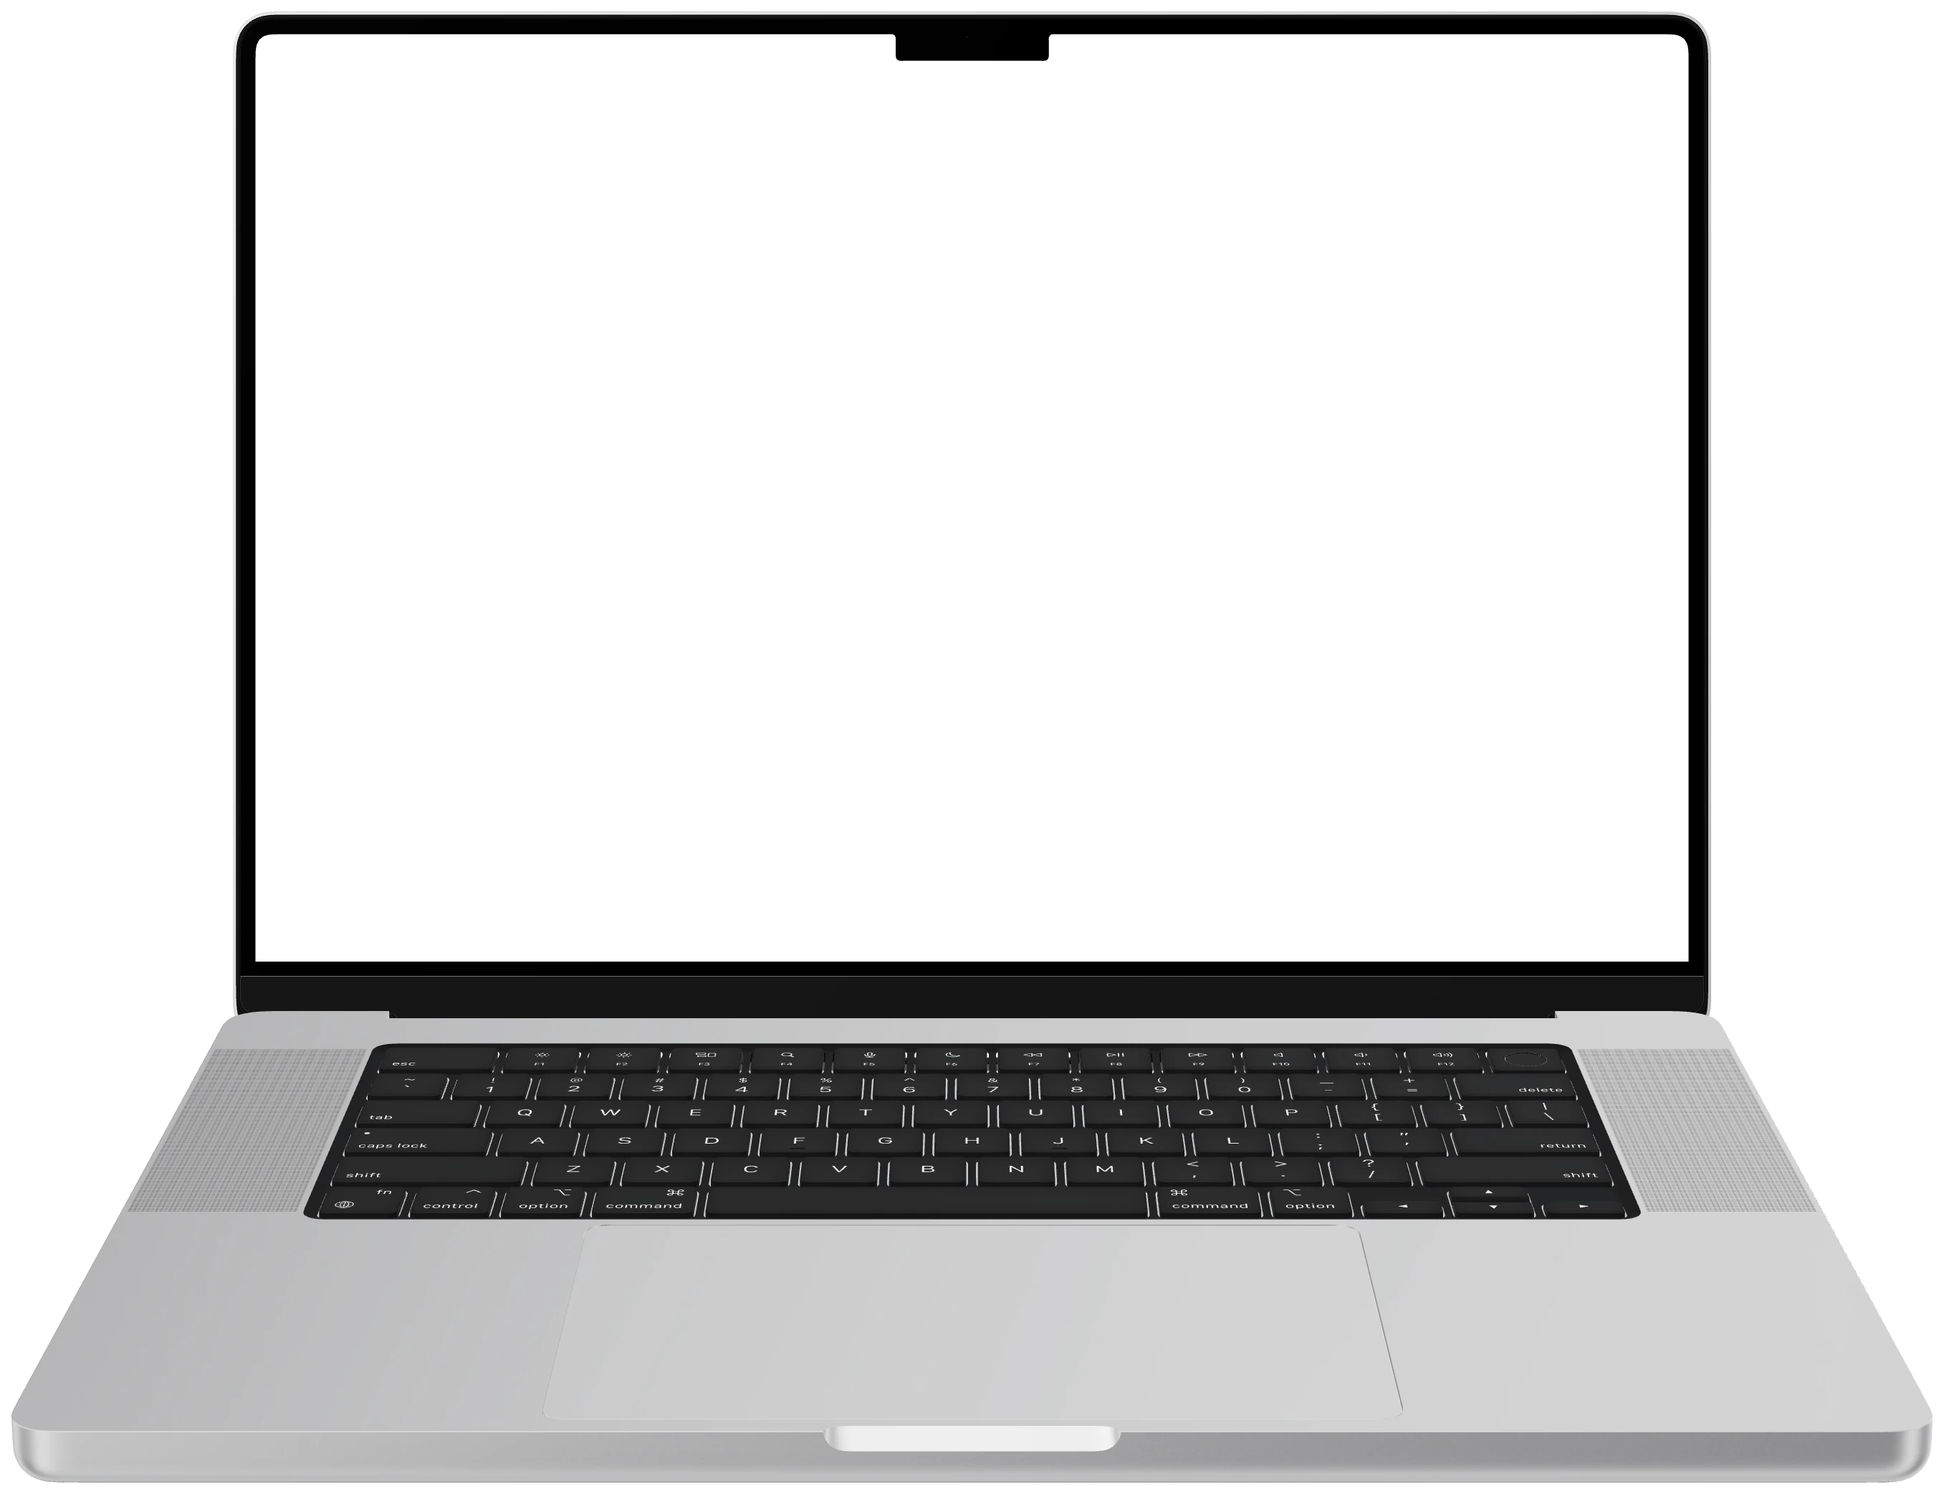
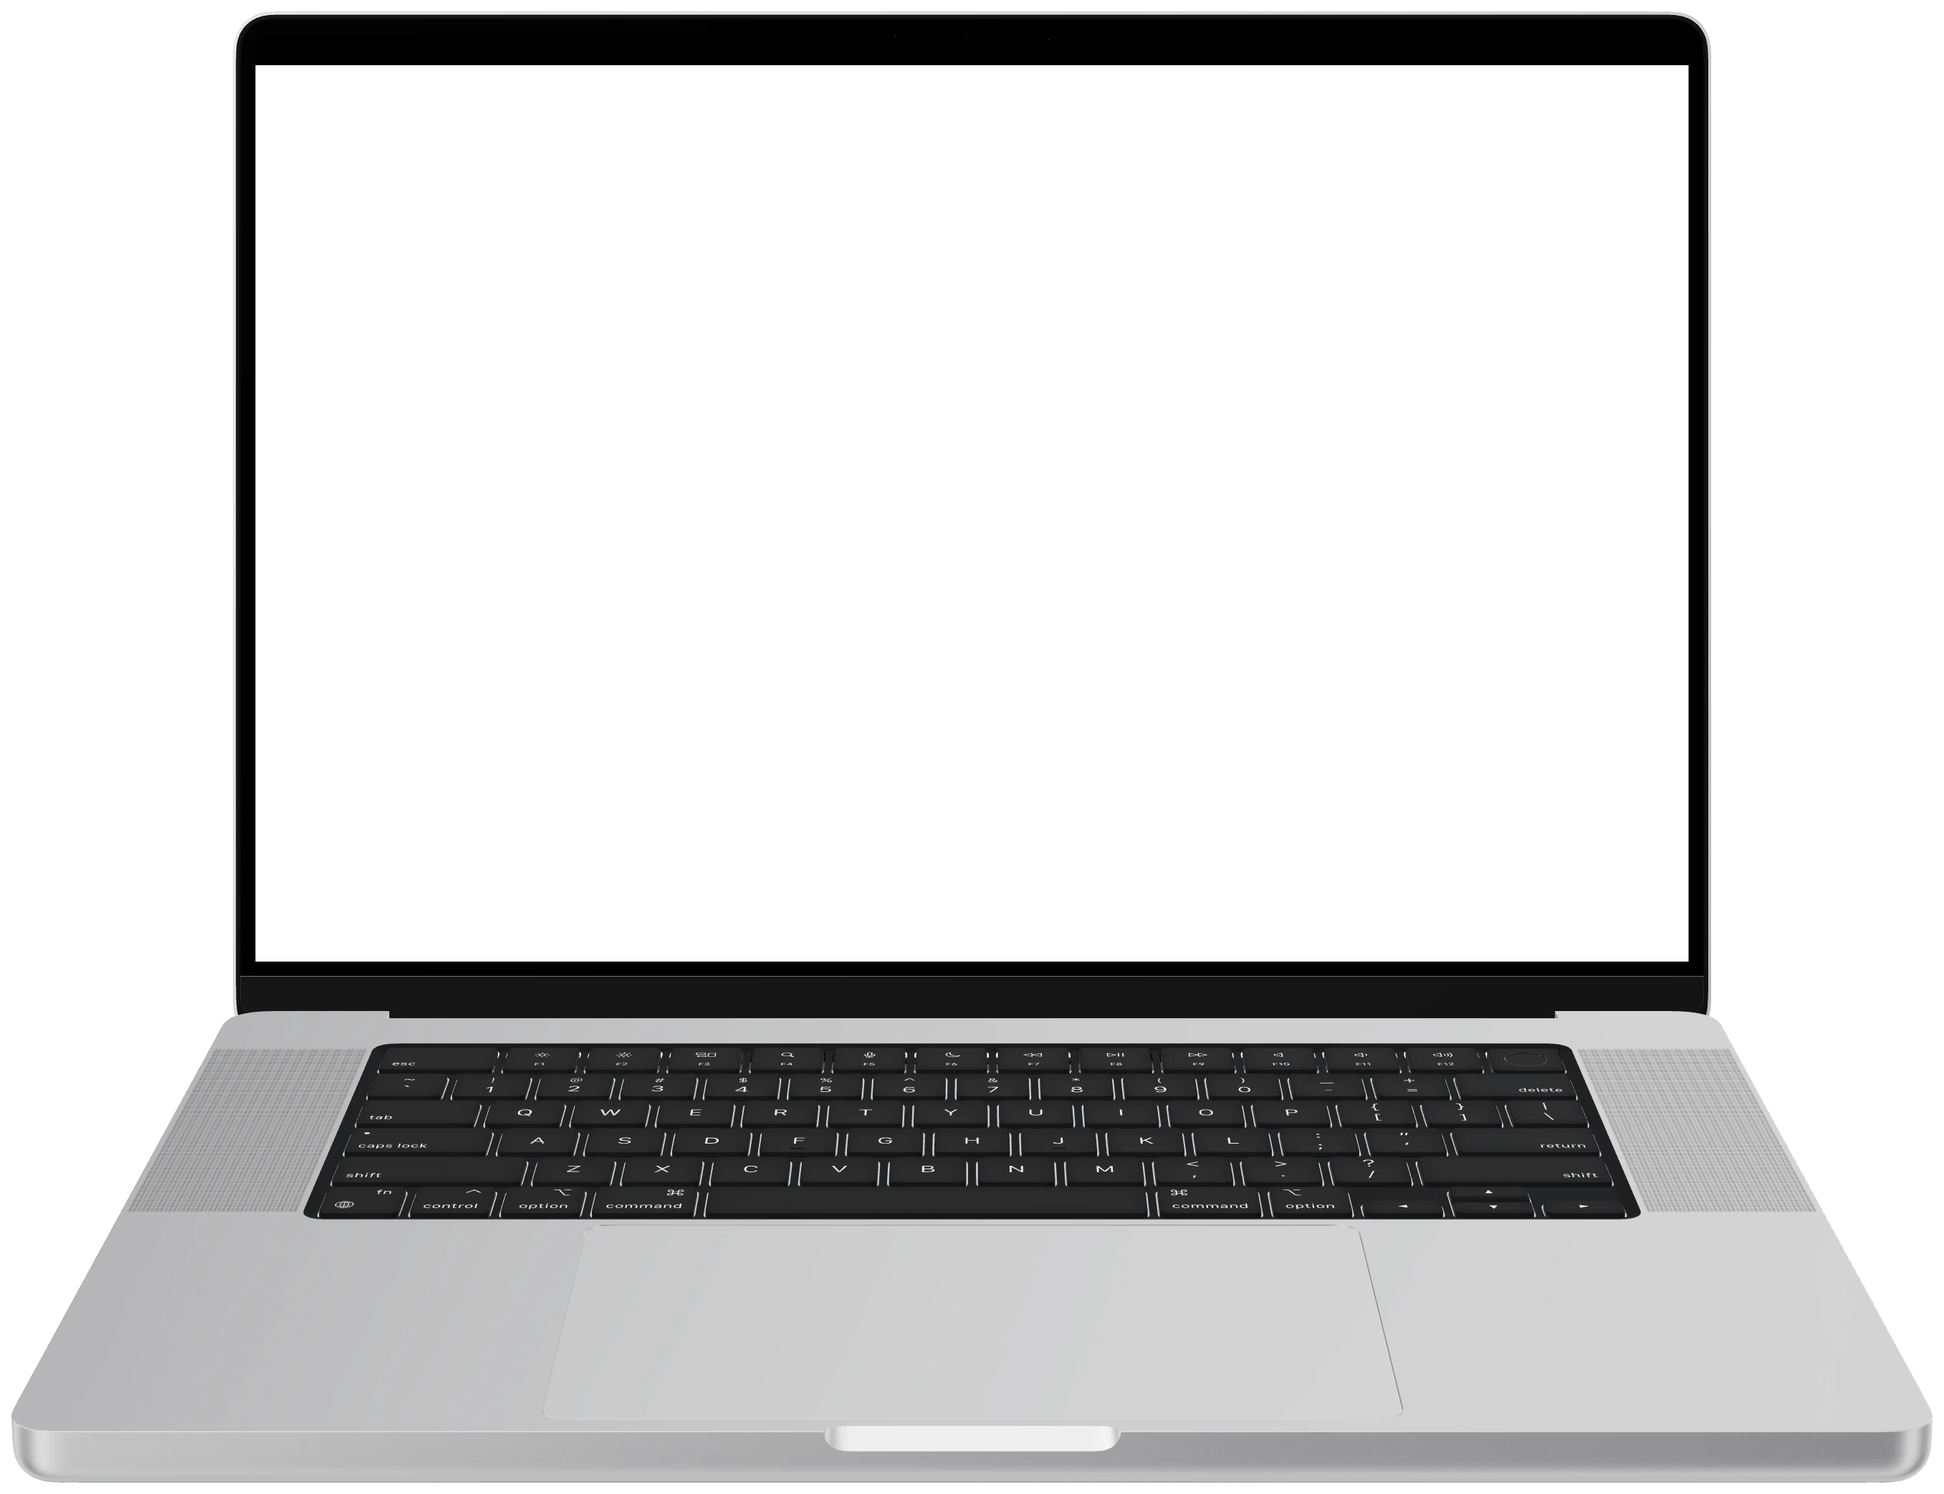
fix(ui): take touches on macOS guests and keep the stream below the notch
A macOS guest dropped every touch, so on a phone or tablet the 2D MacBook
could not be clicked. One finger now presses the left button where it
lands, drags with it, and lets go where it lifts; two fingers scroll, the
content following them. limacvm already rests the pointer before a press
that arrives without a hover, as macOS needs.

The guest's display has no notch, so the MacBook's notch hid the middle of
its menu bar. Like macOS fitting an app below the camera, the stream now
fills the band under the notch, which on the 16-inch panel is exactly
16:10, and the notch's band stays black glass, in 2D and in 3D. The
prepared model records the notch's share of the display's height.

Changed region(s): [[0.1238, 0.0, 0.8669, 0.0624]]

diff --git a/packages/ui/src/components/remote-control.tsx b/packages/ui/src/components/remote-control.tsx
@@ -691,6 +691,9 @@ export const RemoteControl = forwardRef<RemoteControlHandle, RemoteControlProps>
     // (focus moved away, Cmd+Tab, the tab hidden) is released here, or the
     // guest keeps it held and later clicks and keys run as a shortcut.
     const heldMacKeysRef = useRef(new Set<number>());
+    // A touch screen's gesture on a macOS guest: one finger presses the left button and drags,
+    // two scroll. The point is the last one sent, in client coordinates.
+    const macTouchRef = useRef<{ mode: 'press' | 'scroll'; x: number; y: number } | null>(null);
     const releaseHeldMacKeys = useCallback(() => {
       for (const keyCode of heldMacKeysRef.current) {
         clientRef.current?.sendControl(createMacKeyMessage(MAC_INPUT_ACTION.UP, keyCode));
@@ -1180,6 +1183,84 @@ export const RemoteControl = forwardRef<RemoteControlHandle, RemoteControlProps>
       return axElementAtPoint(snapshot, axX, axY);
     };
 
+    // A touch screen has no hover and no wheel. One finger presses the left button where it lands,
+    // drags with it held, and lets go where it lifts; limacvm rests the pointer at a new spot before
+    // a press, as macOS needs. Two fingers scroll, content following them as on a trackpad. A
+    // gesture that becomes a scroll lets its press go first, and stays a scroll until every finger
+    // lifts.
+    const handleMacTouch = (ctx: VideoMappingContext, event: React.TouchEvent) => {
+      const pointer = (action: number, x: number, y: number, buttons: number) => {
+        const geometry = mapClientPointToVideo(ctx, x, y);
+        if (!geometry) return;
+        sendBinaryControlMessage(
+          createMouseControlMessage(
+            action,
+            geometry.videoWidth,
+            geometry.videoHeight,
+            geometry.videoX,
+            geometry.videoY,
+            buttons,
+          ),
+        );
+      };
+      const touches = event.touches;
+      const current = macTouchRef.current;
+      const centroid = () => {
+        let x = 0;
+        let y = 0;
+        for (const touch of Array.from(touches)) {
+          x += touch.clientX;
+          y += touch.clientY;
+        }
+        return { x: x / touches.length, y: y / touches.length };
+      };
+      if (touches.length >= 2) {
+        const center = centroid();
+        if (current?.mode === 'scroll') {
+          const geometry = mapClientPointToVideo(ctx, center.x, center.y);
+          if (geometry && event.type === 'touchmove') {
+            sendBinaryControlMessage(
+              createMacScrollMessage(
+                geometry.videoWidth,
+                geometry.videoHeight,
+                geometry.videoX,
+                geometry.videoY,
+                current.x - center.x,
+                current.y - center.y,
+              ),
+            );
+          }
+        } else if (current?.mode === 'press') {
+          pointer(MAC_INPUT_ACTION.UP, current.x, current.y, 0);
+        }
+        macTouchRef.current = { mode: 'scroll', ...center };
+        return;
+      }
+      if (touches.length === 1 && event.type === 'touchstart' && !current) {
+        const touch = touches[0]!;
+        const relativeX = touch.clientX - ctx.videoRect.left - ctx.offsetX;
+        const relativeY = touch.clientY - ctx.videoRect.top - ctx.offsetY;
+        // A finger on the frame, or a letterbox bar, is not on the guest's screen.
+        if (relativeX < 0 || relativeX > ctx.actualWidth || relativeY < 0 || relativeY > ctx.actualHeight) {
+          return;
+        }
+        videoRef.current?.focus();
+        macTouchRef.current = { mode: 'press', x: touch.clientX, y: touch.clientY };
+        pointer(MAC_INPUT_ACTION.DOWN, touch.clientX, touch.clientY, 1);
+        return;
+      }
+      if (touches.length === 1 && current?.mode === 'press') {
+        const touch = touches[0]!;
+        macTouchRef.current = { mode: 'press', x: touch.clientX, y: touch.clientY };
+        pointer(MAC_INPUT_ACTION.MOVE, touch.clientX, touch.clientY, 1);
+        return;
+      }
+      if (touches.length === 0) {
+        if (current?.mode === 'press') pointer(MAC_INPUT_ACTION.UP, current.x, current.y, 0);
+        macTouchRef.current = null;
+      }
+    };
+
     // Unified handler for both mouse and touch interactions
     const handleInteraction = (event: React.MouseEvent | React.TouchEvent) => {
       // The Duo and the 3D MacBook take their own input, and their controls, such as a slider,
@@ -1224,7 +1305,11 @@ export const RemoteControl = forwardRef<RemoteControlHandle, RemoteControlProps>
       // A macOS guest takes a desktop pointer: hover moves, every button, and no
       // touch emulation or Alt two-finger gestures.
       if (platform === 'macos') {
-        if ('touches' in event || !ctx || !clientRef.current?.getState().controlReady) return;
+        if (!ctx || !clientRef.current?.getState().controlReady) return;
+        if ('touches' in event) {
+          handleMacTouch(ctx, event);
+          return;
+        }
         const geometry = mapClientPointToVideo(ctx, event.clientX, event.clientY);
         if (!geometry) return;
         const action =

diff --git a/packages/ui/src/components/remote-control-macos.test.tsx b/packages/ui/src/components/remote-control-macos.test.tsx
@@ -277,3 +277,71 @@ it('puts the stream in the screen opening of a rendered MacBook image', async ()
     vi.restoreAllMocks();
   }
 });
+
+// A phone or tablet has no hover and no wheel: a finger is the left button, two fingers scroll.
+it('turns touches on a macOS guest into presses, drags and scrolls', async () => {
+  stubContainerSize(1114, 2000);
+  vi.spyOn(HTMLVideoElement.prototype, 'videoWidth', 'get').mockReturnValue(1600);
+  vi.spyOn(HTMLVideoElement.prototype, 'videoHeight', 'get').mockReturnValue(1000);
+  const rect = { left: 0, top: 0, right: 800, bottom: 500, width: 800, height: 500, x: 0, y: 0 };
+  vi.spyOn(HTMLElement.prototype, 'getBoundingClientRect').mockReturnValue({ ...rect, toJSON: () => rect });
+  const { host, root, video } = await renderMacOS({ animateLid: false });
+  const touch = async (type: string, points: [number, number][]) => {
+    const event = new Event(type, { bubbles: true, cancelable: true });
+    const touches = points.map(([clientX, clientY]) => ({ clientX, clientY }));
+    Object.defineProperty(event, 'touches', { value: type === 'touchend' ? [] : touches });
+    Object.defineProperty(event, 'changedTouches', { value: touches });
+    await act(async () => video.dispatchEvent(event));
+  };
+  const sent = () =>
+    sendControl.mock.calls.map(([data]) => {
+      const view = new DataView(data as ArrayBuffer);
+      if (view.getUint8(0) === CONTROL_MSG_TYPE.INJECT_MOUSE_EVENT) {
+        return [
+          'pointer',
+          view.getUint8(1),
+          view.getInt32(2, true),
+          view.getInt32(6, true),
+          view.getInt32(14, true),
+        ];
+      }
+      if (view.getUint8(0) === CONTROL_MSG_TYPE.INJECT_MAC_SCROLL) {
+        return [
+          'scroll',
+          view.getInt32(1, true),
+          view.getInt32(5, true),
+          view.getFloat32(13, true),
+          view.getFloat32(17, true),
+        ];
+      }
+      return ['other'];
+    });
+  try {
+    sendControl.mockClear();
+    // A tap at the middle of the 800 × 500 view is a click at the middle of the 1600 × 1000 guest.
+    await touch('touchstart', [[400, 250]]);
+    await touch('touchmove', [[410, 260]]);
+    await touch('touchend', [[410, 260]]);
+    expect(sent()).toEqual([
+      ['pointer', MAC_INPUT_ACTION.DOWN, 800, 500, 1],
+      ['pointer', MAC_INPUT_ACTION.MOVE, 820, 520, 1],
+      ['pointer', MAC_INPUT_ACTION.UP, 820, 520, 0],
+    ]);
+    sendControl.mockClear();
+    // Two fingers moving up scroll the content up, as on a trackpad.
+    await touch('touchstart', [
+      [300, 300],
+      [500, 300],
+    ]);
+    await touch('touchmove', [
+      [300, 280],
+      [500, 280],
+    ]);
+    await touch('touchend', []);
+    expect(sent()).toEqual([['scroll', 800, 560, 0, 20]]);
+  } finally {
+    await act(async () => root.unmount());
+    host.remove();
+    vi.restoreAllMocks();
+  }
+});

diff --git a/packages/ui/scripts/render-macbook-frame.ts b/packages/ui/scripts/render-macbook-frame.ts
@@ -8,7 +8,8 @@
 // A perspective camera looks square at the screen's center, so the screen's opening is a rectangle
 // the stream fills, while the rest of the MacBook keeps its perspective, as in a photograph. The
 // lid leans back, so the same camera looks down onto the keyboard. The opening is where the screen
-// shows, the notch kept in front of it.
+// shows below the notch's band, which macOS keeps clear of the notch; the black glass either side of
+// the notch stays in the frame.
 import * as THREE from 'three';
 import { GLTFLoader } from 'three/addons/loaders/GLTFLoader.js';
 import { MeshoptDecoder } from 'three/addons/libs/meshopt_decoder.module.js';
@@ -127,21 +128,25 @@ renderer.setClearColor(0x000000, 1);
 renderer.render(scene, camera);
 const mask = capture();
 
-// The frame: the MacBook with the screen's opening cleared.
+// The screen's rectangle below the notch's band, as fractions of the frame's width and height.
+const notch = Number(screen.userData['notch'] ?? 0);
+const screenTop = (frame.max.y - opening.max.y) / (frame.max.y - frame.min.y);
+const screenHeight = (opening.max.y - opening.min.y) / (frame.max.y - frame.min.y);
+const place = {
+  left: (opening.min.x - frame.min.x) / (frame.max.x - frame.min.x),
+  top: screenTop + screenHeight * notch,
+  width: (opening.max.x - opening.min.x) / (frame.max.x - frame.min.x),
+  height: screenHeight * (1 - notch),
+};
+
+// The frame: the MacBook with the screen's opening below the notch's band cleared.
 const pixels = beauty.getImageData(0, 0, width, height);
 const shown = mask.getImageData(0, 0, width, height).data;
-for (let i = 0; i < pixels.data.length; i += 4) {
+const bandEnd = Math.round(place.top * height);
+for (let i = bandEnd * width * 4; i < pixels.data.length; i += 4) {
   pixels.data[i + 3] = Math.round(pixels.data[i + 3]! * (1 - shown[i]! / 255));
 }
 beauty.putImageData(pixels, 0, 0);
-
-// The screen's rectangle in the frame, as fractions of its width and height.
-const place = {
-  left: (opening.min.x - frame.min.x) / (frame.max.x - frame.min.x),
-  top: (frame.max.y - opening.max.y) / (frame.max.y - frame.min.y),
-  width: (opening.max.x - opening.min.x) / (frame.max.x - frame.min.x),
-  height: (opening.max.y - opening.min.y) / (frame.max.y - frame.min.y),
-};
 const blob = await new Promise<Blob>((resolve) => beauty.canvas.toBlob((b) => resolve(b!), 'image/png'));
 const result = { width, height, screen: place };
 document.body.append(beauty.canvas);

diff --git a/packages/ui/src/components/macbook-geometry.ts b/packages/ui/src/components/macbook-geometry.ts
@@ -266,12 +266,17 @@ export function macbookMeshes(aspect: number): MacbookMesh[] {
 /**
  * How a stream fills a display of another shape: the texture transform that keeps its shape,
  * centered, with black bars on the sides it does not reach. Texture coordinates outside 0 to 1
- * after it are the bars.
+ * after it are the bars. A display with a notch keeps the stream below it, in the band macOS keeps
+ * clear of the notch; `notch` is the share of the display's height the notch takes at its top.
  */
-export function streamFit(videoAspect: number, screenAspect: number) {
-  const width = videoAspect >= screenAspect ? 1 : videoAspect / screenAspect;
-  const height = videoAspect >= screenAspect ? screenAspect / videoAspect : 1;
-  return { repeat: [1 / width, 1 / height], offset: [0.5 - 0.5 / width, 0.5 - 0.5 / height] } as const;
+export function streamFit(videoAspect: number, screenAspect: number, notch = 0) {
+  const area = 1 - notch;
+  const areaAspect = screenAspect / area;
+  const width = videoAspect >= areaAspect ? 1 : videoAspect / areaAspect;
+  const height = (videoAspect >= areaAspect ? areaAspect / videoAspect : 1) * area;
+  const left = (1 - width) / 2;
+  const bottom = (area - height) / 2;
+  return { repeat: [1 / width, 1 / height], offset: [(0 - left) / width, (0 - bottom) / height] } as const;
 }
 
 /**
@@ -285,6 +290,9 @@ export function streamPoint(
 ): { x: number; y: number } | undefined {
   const x = u * fit.repeat[0]! + fit.offset[0]!;
   const y = v * fit.repeat[1]! + fit.offset[1]!;
-  if (x < 0 || x > 1 || y < 0 || y > 1) return undefined;
-  return { x, y: 1 - y };
+  // A point on the stream's edge may land a rounding error past it.
+  const edge = 1e-9;
+  if (x < -edge || x > 1 + edge || y < -edge || y > 1 + edge) return undefined;
+  const clamp = (value: number) => Math.max(0, Math.min(1, value));
+  return { x: clamp(x), y: clamp(1 - y) };
 }

diff --git a/packages/ui/src/components/macbook-frame.tsx b/packages/ui/src/components/macbook-frame.tsx
@@ -172,13 +172,15 @@ export default function MacbookFrame(props: MacbookFrameProps) {
       );
     };
     screenMaterial.customProgramCacheKey = () => 'macbook-fitted-screen';
-    // The display's aspect ratio: the stream's for the built-in model, the panel's for a prepared one.
+    // The display's aspect ratio, the stream's for the built-in model and the panel's for a prepared
+    // one, and the share of its height a prepared one's notch takes.
     let screenAspect = latest.current.aspect;
+    let notch = 0;
     let fit = streamFit(screenAspect, screenAspect);
     const fitStream = () => {
       const videoAspect =
         video.videoWidth && video.videoHeight ? video.videoWidth / video.videoHeight : screenAspect;
-      fit = streamFit(videoAspect, screenAspect);
+      fit = streamFit(videoAspect, screenAspect, notch);
       screenTexture.repeat.set(fit.repeat[0], fit.repeat[1]);
       screenTexture.offset.set(fit.offset[0], fit.offset[1]);
     };
@@ -279,6 +281,8 @@ export default function MacbookFrame(props: MacbookFrameProps) {
       screenMesh = importedScreen;
       const panel = importedScreen.userData['aspect'];
       if (typeof panel === 'number' && panel > 0) screenAspect = panel;
+      const notchShare = importedScreen.userData['notch'];
+      if (typeof notchShare === 'number' && notchShare >= 0 && notchShare < 0.5) notch = notchShare;
       for (const resource of builtIn.splice(0)) resource.dispose();
       center();
     };

diff --git a/packages/ui/src/components/macbook-geometry.test.ts b/packages/ui/src/components/macbook-geometry.test.ts
@@ -106,6 +106,19 @@ describe('a stream on a display of another shape', () => {
     expect(corner.y).toBeCloseTo(0, 5);
   });
 
+  it('keeps a 16:10 stream below the notch, filling the band macOS leaves it', () => {
+    // The 16-inch panel is 3456 × 2234 and its notch takes the top 74 rows.
+    const below = streamFit(16 / 10, 3456 / 2234, 74 / 2234);
+    const share = 74 / 2234;
+    expect(streamPoint(0.5, 1 - share / 2, below)).toBeUndefined();
+    const topLeft = streamPoint(0, 1 - share, below)!;
+    expect(topLeft.x).toBeCloseTo(0, 5);
+    expect(topLeft.y).toBeCloseTo(0, 5);
+    const bottomRight = streamPoint(1, 0, below)!;
+    expect(bottomRight.x).toBeCloseTo(1, 5);
+    expect(bottomRight.y).toBeCloseTo(1, 5);
+  });
+
   it('puts bars on the sides of a narrower stream', () => {
     const narrow = streamFit(4 / 3, 1.545);
     expect(streamPoint(0.01, 0.5, narrow)).toBeUndefined();

diff --git a/packages/ui/src/frame-assets.ts b/packages/ui/src/frame-assets.ts
@@ -37,7 +37,7 @@ export const defaultRemoteControlAssets: RemoteControlAssets = {
   },
   macos: {
     frame: macbookFrame,
-    // The render's screen opening, which render-macbook-frame.ts reports.
-    screen: { left: 0.131416, top: 0.02286, width: 0.737111, height: 0.620762 },
+    // The render's screen opening below the notch's band, which render-macbook-frame.ts reports.
+    screen: { left: 0.131416, top: 0.043422, width: 0.737111, height: 0.6002 },
   },
 };
